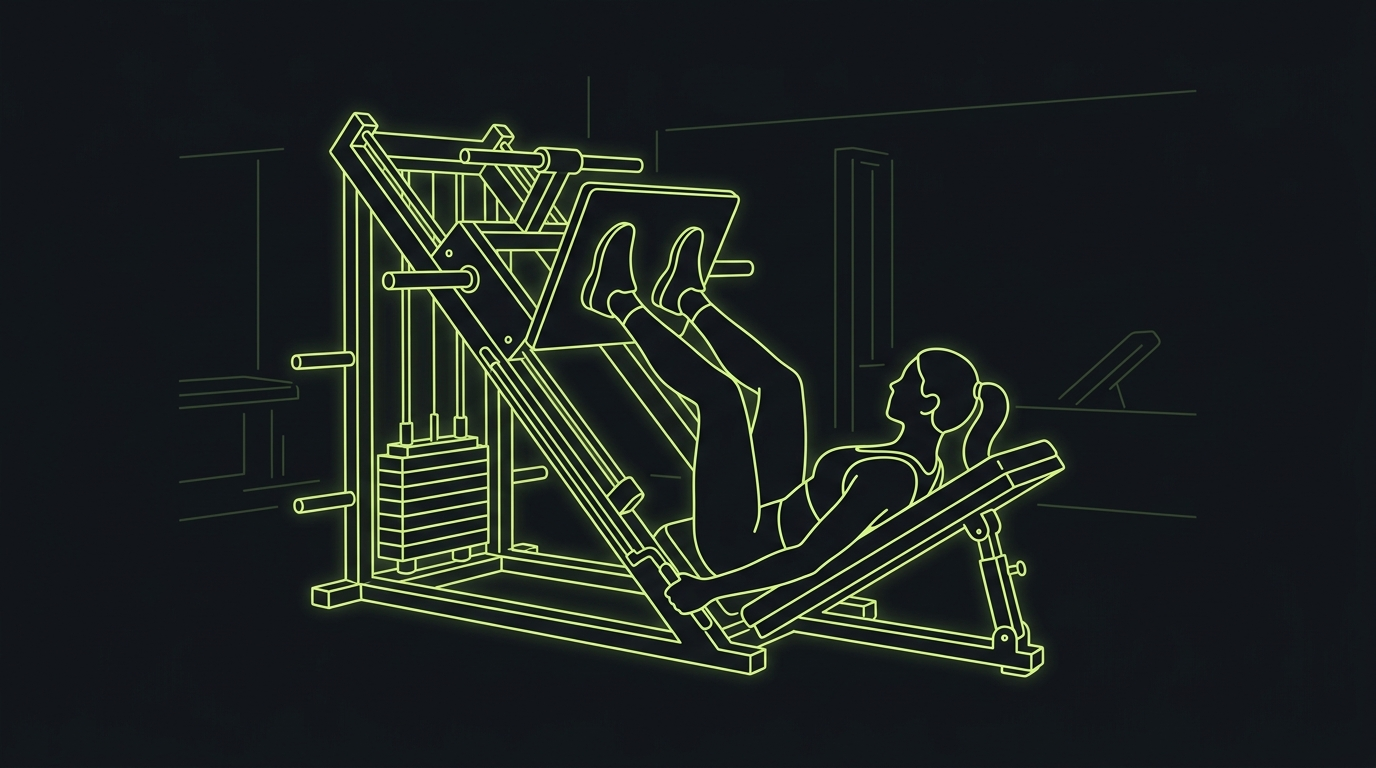
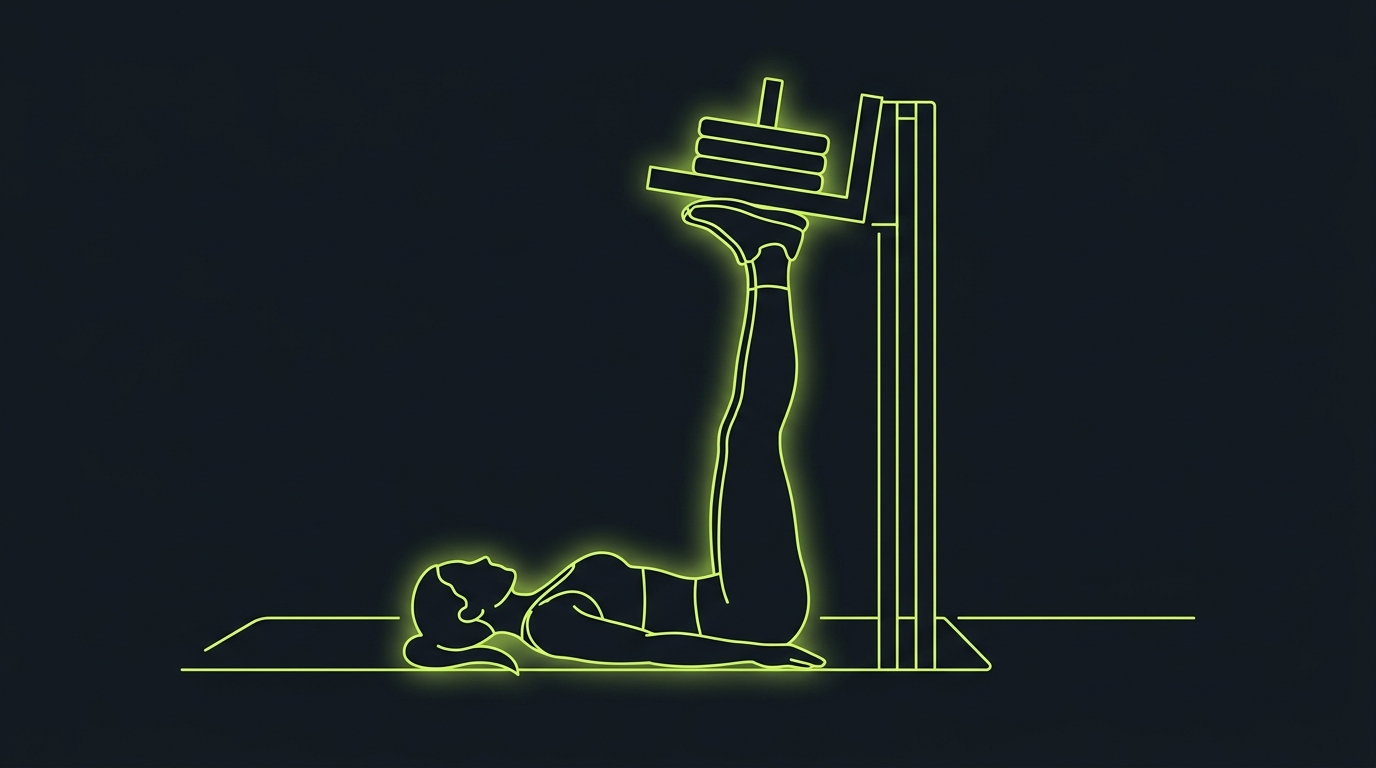
fix(ejercicios): regenerate prensa vertical with correct machine
Update prompt to show lying flat on back pushing platform straight up
with feet, matching the actual vertical leg press machine.

Changed region(s): [[0.125, 0.0938, 0.875, 0.9062], [0.8125, 0.4375, 0.8438, 0.4688], [0.7812, 0.4688, 0.8125, 0.5]]

diff --git a/ejercicios/generate_images.py b/ejercicios/generate_images.py
@@ -56,7 +56,7 @@ EXERCISE_PROMPTS = {
     "sentadilla-barra": ("a barbell back squat, standing with a barbell on the upper back behind the neck, squatting down with thighs parallel to the floor, feet shoulder width apart", "3/4 diagonal view"),
     "prensa-inclinada": ("a 45-degree incline leg press machine, seated with back against pad, pushing a weighted platform upward with both legs, knees bent at 90 degrees", "3/4 diagonal view"),
     "prensa-horizontal": ("a horizontal seated leg press machine, sitting upright pushing a vertical platform forward with both legs, knees bent at 90 degrees", "3/4 diagonal view"),
-    "prensa-vertical": ("a vertical leg press machine, lying on back pushing a weighted platform straight up with both legs, knees bent at 90 degrees", "3/4 diagonal view"),
+    "prensa-vertical": ("a vertical leg press machine, lying flat on back on the floor pushing a weighted plate-loaded platform straight up overhead with both feet, legs extending vertically upward", "side view"),
     "femoral-de-pie": ("a standing single-leg hamstring curl machine, standing upright with chest leaning on pad, curling one leg back bringing heel toward glute against a roller pad", "3/4 diagonal view from behind"),
     "press-inclinado-unilateral-maquina": ("a seated single-arm incline chest press on a machine, pushing upward and forward with one arm on an inclined trajectory", "3/4 diagonal view"),
     "extensiones-triceps-barra": ("a standing tricep straight bar pushdown on a cable machine, gripping a straight bar pushing down", "3/4 diagonal view"),
